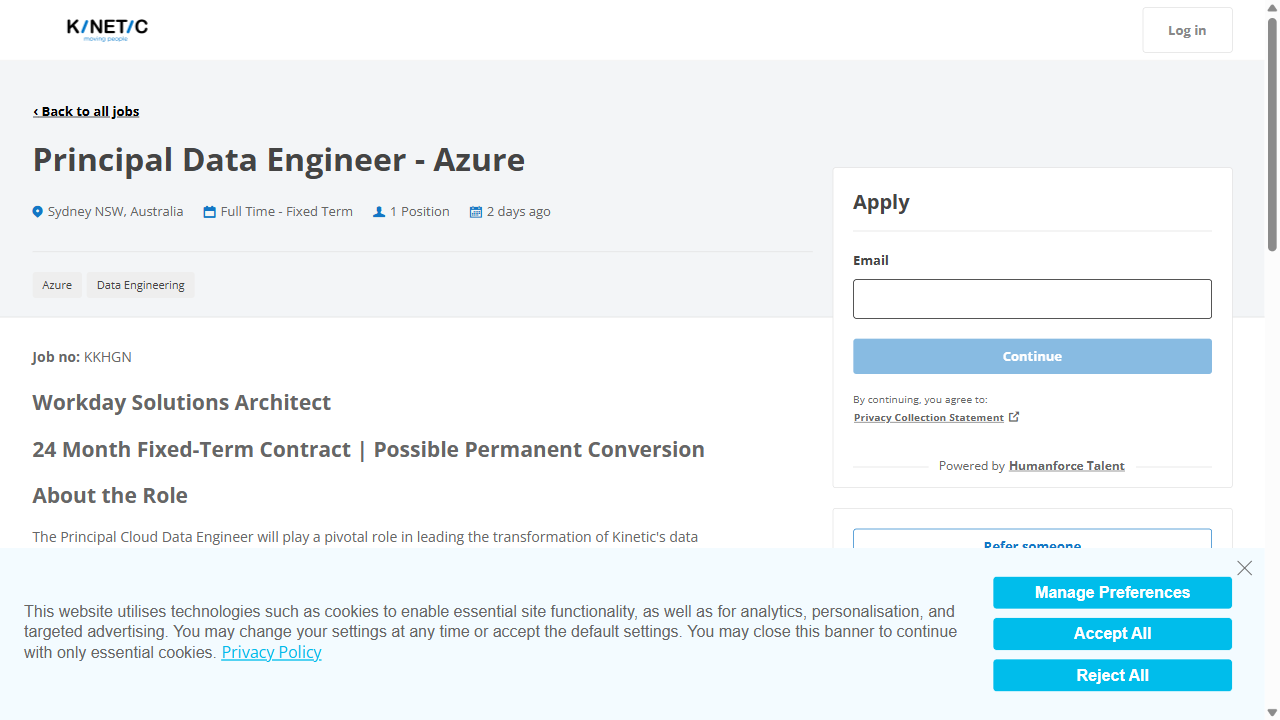
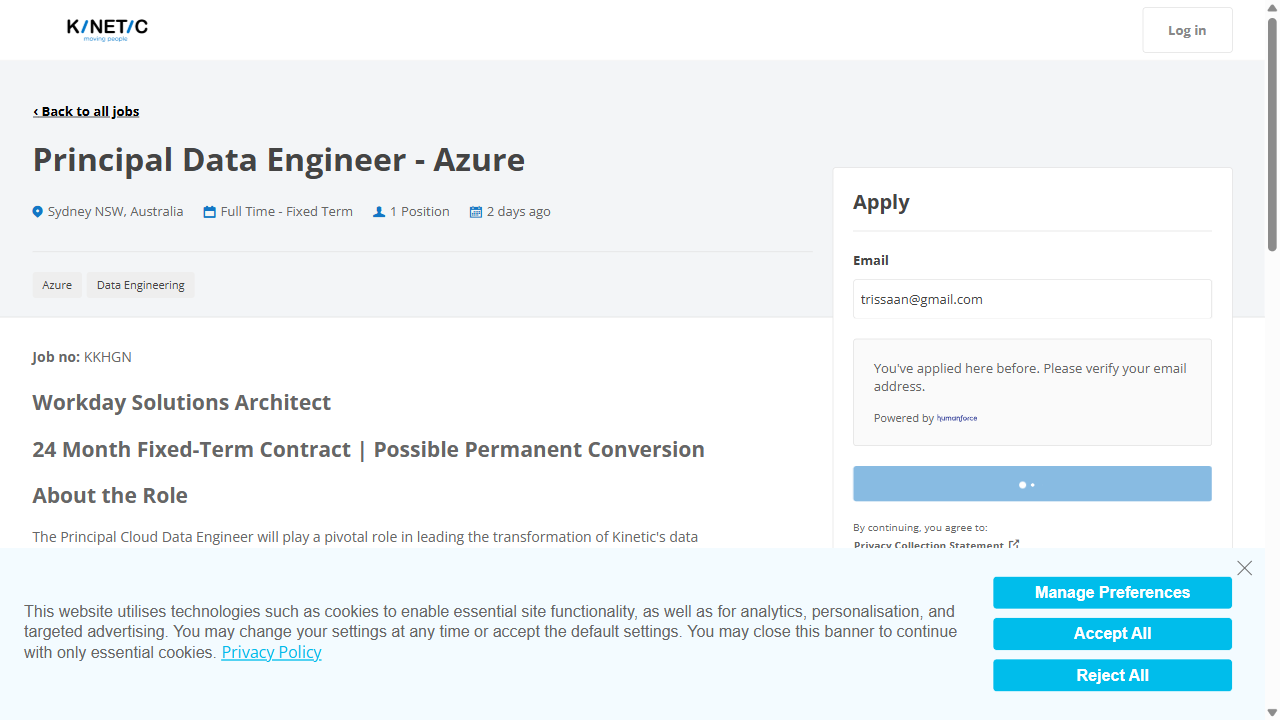
dynamic resume upload and field fill part 1

diff --git a/backend/bots/handlers/livehire.py b/backend/bots/handlers/livehire.py
@@ -5,70 +5,71 @@ from bots.utils.claude_field_mapper import get_field_mapping_from_claude
 from app.resume.gpt_utils import generate_cover_letter  
 from bots.utils.pdf_utils import save_cover_letter_as_pdf
 from bots.utils.job_parser import extract_job_details_ai
+from bots.utils.upload_handler import smart_resume_upload
+
 
 def apply_livehire(page, resume_path, user_info):
     print("🧠 Starting LiveHire Application Process...")
 
     try:
-        # Step 1: Extract Job Title & Description via Claude
+        # Step 1: Extract Job Title & Description using AI
         job_title, jd_text = extract_job_details_ai(page)
         print(f"🧠 Claude-extracted title: {job_title}")
         print(f"📄 JD length: {len(jd_text)} chars")
 
-        # Step 2: Generate cover letter (PDF + raw text)
+        # Step 2: Generate cover letter and save PDF
         cover_letter_text = generate_cover_letter(jd_text, user_info.get("resume_text", ""), job_title)
         cover_letter_path = save_cover_letter_as_pdf(cover_letter_text)
         user_info["cover_letter"] = cover_letter_text
         user_info["cover_letter_path"] = cover_letter_path
 
-        # Step 3: Wait for buttons to load
+        # Step 3: Find and click the best apply button
         page.wait_for_selector("button", timeout=10000)
         buttons = page.locator("button")
-
-        # Step 4: Try to find resume-related button
         matched_button = None
         for i in range(buttons.count()):
             text = buttons.nth(i).text_content()
-            if text:
-                clean_text = text.strip().lower()
-                if any(keyword in clean_text for keyword in ["resume", "cv", "upload"]):
-                    matched_button = buttons.nth(i)
-                    print(f"✅ Found resume-related button: '{clean_text}'")
-                    break
+            if text and any(keyword in text.strip().lower() for keyword in ["resume", "cv", "upload"]):
+                matched_button = buttons.nth(i)
+                print(f"✅ Found resume-related button: '{text.strip()}'")
+                break
 
-        # Step 5: Fallback to Claude if no match
         if not matched_button:
-            print("🤖 No resume-related button found. Using Claude...")
             texts = [btn.text_content() for btn in buttons.element_handles()]
-            print(f"🧠 Found buttons: {texts}")
             best_button = get_best_apply_button(texts)
             print(f"🤖 Claude says to click: '{best_button}'")
             matched_button = page.locator(f"button:has-text('{best_button}')").first
 
-        # Step 6: Click the matched button
         matched_button.wait_for(timeout=10000)
         matched_button.click()
 
-        # Step 7: Extract form fields
-        print("🔍 Extracting visible form fields...")
+        # Step 4: Initial form filling phase
+        print("📝 Phase 1: Filling initial form fields...")
         fields = extract_form_fields(page)
-
-        # Step 8: Get Claude's mapping
-        print("🧠 Asking Claude to map fields to user info...")
         mapping = get_field_mapping_from_claude(user_info, fields)
-
-        # Step 9: Fill the form
         fill_form_by_index(page, fields, mapping, user_info)
 
-        # Step 10: Upload Resume if not already mapped
+        """# Step 5: Wait for dynamic form elements (like file upload)
         try:
-            if not any("resume" in field["label"].lower() for field in fields):
-                page.set_input_files("input[type='file']", resume_path)
-                print("📎 Resume uploaded manually.")
+            print("📎 Waiting for resume upload field to appear...")
+            page.wait_for_selector("input[type='file']", timeout=15000)
+            page.locator("input[type='file']").first.set_input_files(resume_path)
+            print("📎 Resume uploaded after dynamic form load.")
         except Exception as e:
-            print(f"❌ Resume upload failed: {e}")
+            print(f"❌ Resume upload failed: {e}")"""
+        # Step 5: Upload resume using hybrid strategy
+        if smart_resume_upload(page, resume_path):
+            print("📎 Resume upload complete.")
+        else:
+            print("⚠ Resume upload could not be completed. Proceeding anyway...")
 
-        # Step 11: Submit the form
+        # Step 6 (Optional): Re-extract and re-fill any new fields
+        print("🔁 Phase 2: Rechecking form after dynamic load...")
+        updated_fields = extract_form_fields(page)
+        updated_mapping = get_field_mapping_from_claude(user_info, updated_fields)
+        fill_form_by_index(page, updated_fields, updated_mapping, user_info)
+
+        # Step 7: Submit application
         try:
             submit = page.locator("button[type='submit'], button:has-text('Submit'), button:has-text('Apply')").first
             submit.click()
@@ -76,10 +77,10 @@ def apply_livehire(page, resume_path, user_info):
         except Exception as e:
             print(f"❌ Could not click submit button: {e}")
 
-        # Step 12: Screenshot
+        # Step 8: Screenshot for success
         page.screenshot(path="png/livehire_success.png")
 
-        # Step 13: Cleanup
+        # Step 9: Cleanup
         try:
             os.remove(cover_letter_path)
             print("🧹 Cleaned up temporary cover letter PDF.")

diff --git a/backend/bots/utils/upload_handler.py b/backend/bots/utils/upload_handler.py
@@ -1,0 +1,33 @@
+from bots.utils.form_utils import extract_possible_upload_targets
+from bots.utils.claude_client import get_best_resume_upload_target
+
+def smart_resume_upload(page, resume_path):
+    # ✅ Phase 1: Try standard upload
+    try:
+        print("📎 Trying standard resume upload...")
+        page.wait_for_selector("input[type='file']", timeout=5000)
+        page.locator("input[type='file']").first.set_input_files(resume_path)
+        print("✅ Resume uploaded via standard file input.")
+        return True
+    except Exception as e:
+        print(f"⚠ Standard upload failed: {e}")
+
+    # 🤖 Phase 2: Claude fallback
+    try:
+        print("🤖 Attempting Claude-powered fallback to find hidden upload...")
+        possible_targets = extract_possible_upload_targets(page)
+        best_index = get_best_resume_upload_target(possible_targets)
+
+        if best_index.isdigit():
+            el = page.locator("*:visible").nth(int(best_index))
+            el.click(force=True)
+            page.wait_for_selector("input[type='file']", timeout=5000)
+            page.locator("input[type='file']").first.set_input_files(resume_path)
+            print("✅ Resume uploaded via Claude-identified fallback.")
+            return True
+        else:
+            print("❌ Claude did not find a valid upload target.")
+    except Exception as e:
+        print(f"❌ Fallback upload failed: {e}")
+
+    return False

diff --git a/backend/bots/utils/form_utils.py b/backend/bots/utils/form_utils.py
@@ -52,3 +52,29 @@ def fill_form_by_index(page, field_list, index_mapping, user_info):
                 print(f"✅ Filled '{field['label']}' with '{value[:30]}'")
         except Exception as e:
             print(f"❌ Could not fill field {field['label']}: {e}")
+def extract_possible_upload_targets(page):
+    elements = page.locator("*:visible")
+    potential_uploads = []
+
+    for i in range(min(elements.count(), 100)):  # Limit for performance
+        try:
+            el = elements.nth(i)
+            tag = el.evaluate("e => e.tagName.toLowerCase()")
+            text = el.text_content().strip()
+            aria = el.get_attribute("aria-label") or ""
+            class_attr = el.get_attribute("class") or ""
+
+            combined = f"{text} {aria} {class_attr}".lower()
+            if any(keyword in combined for keyword in ["upload", "resume", "cv", "drag", "drop", "file"]):
+                potential_uploads.append({
+                    "index": i,
+                    "tag": tag,
+                    "text": text,
+                    "aria": aria,
+                    "classes": class_attr
+                })
+        except:
+            continue
+
+    return potential_uploads
+
